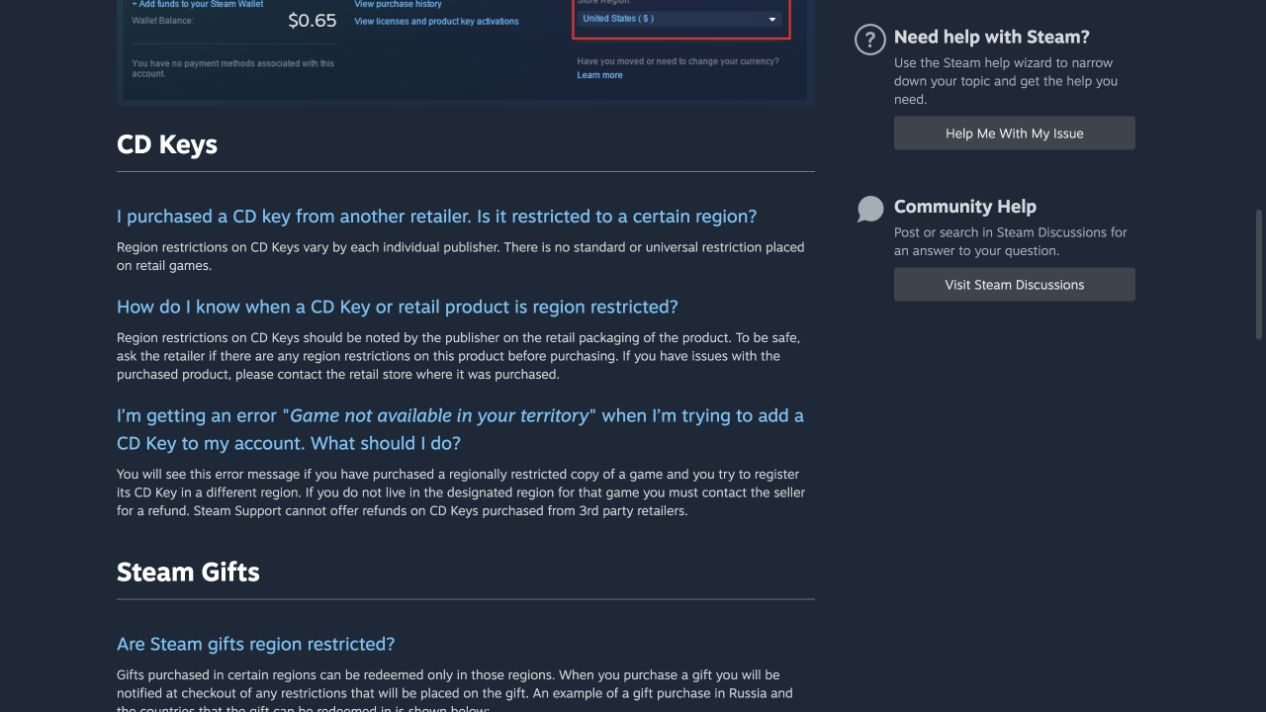
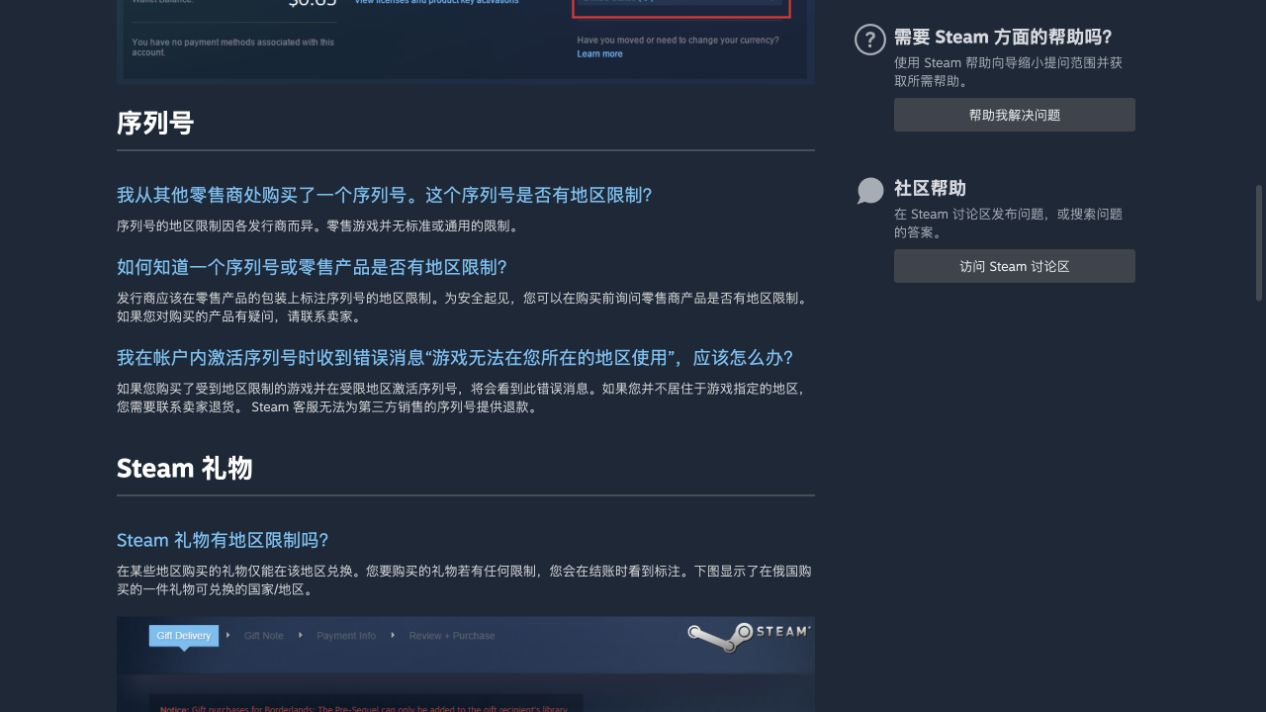
Update Steam guide with Chinese screenshots

diff --git a/内容/游戏与购买/Steam/目录.md b/内容/游戏与购买/Steam/目录.md
@@ -4,4 +4,4 @@
 
 ## 文章
 
-- [Steam 游戏购买说明](Steam游戏购买说明.md)：对比 Steam 商店购买、CD Key、好友赠礼和钱包充值，说明地区限制、密钥或礼物撤回，以及“红锁、黄锁”等玩家俗称。
+- [Steam 游戏购买说明](Steam游戏购买说明.md)：对比 Steam 商店购买、CD Key、好友赠礼和钱包充值，说明 SteamPY 低价散 Key 与代激活流程、地区限制、密钥或礼物撤回，以及“红锁、黄锁”等玩家俗称。
